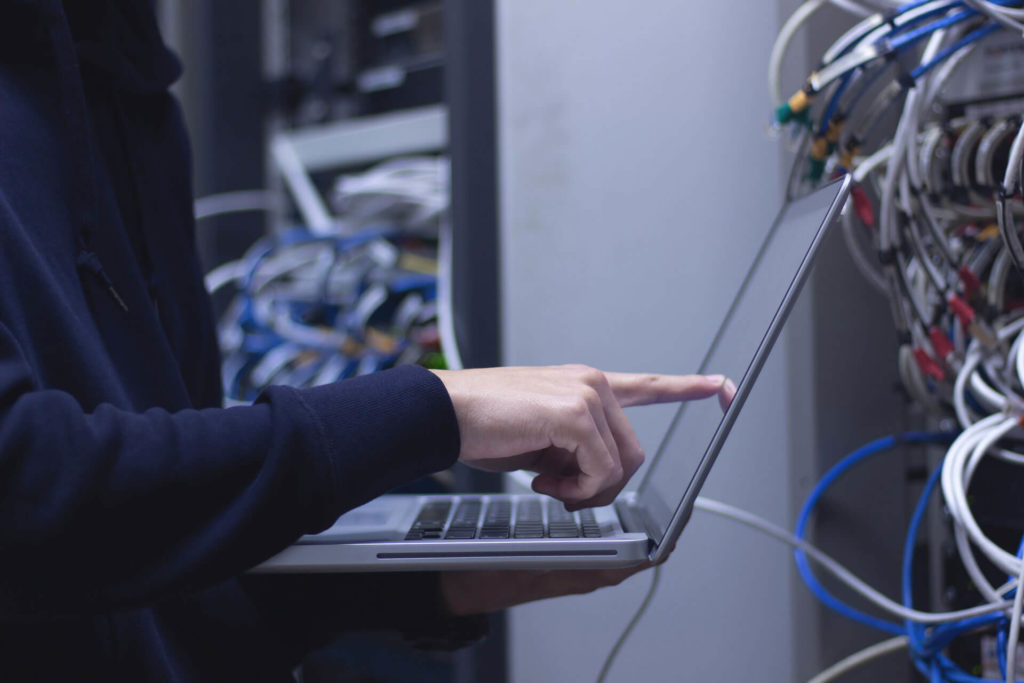
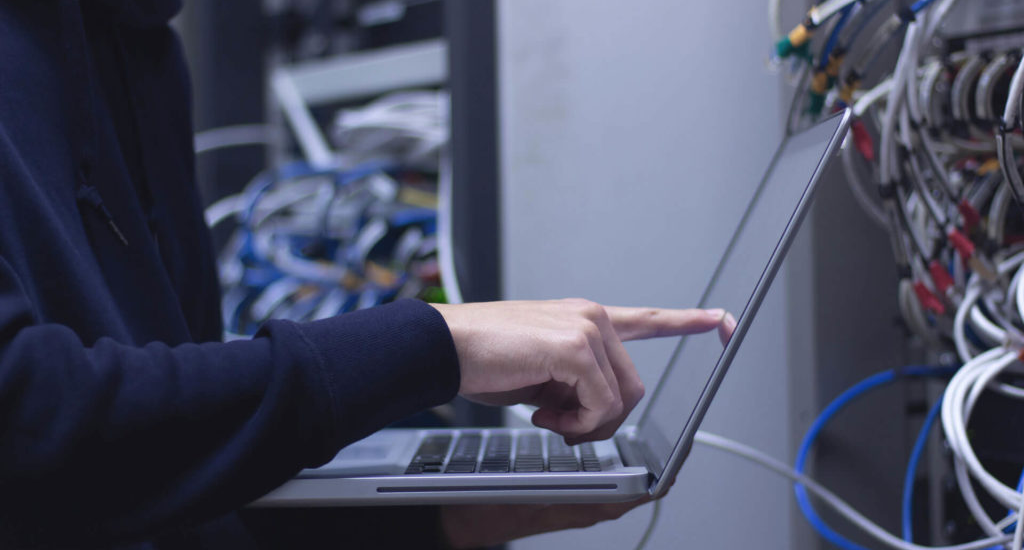
Corrección imágenes

diff --git a/index.html b/index.html
@@ -1,0 +1,26 @@
+<!DOCTYPE html>
+<html lang="en">
+
+<head>
+    <meta charset="UTF-8">
+    <meta http-equiv="X-UA-Compatible" content="IE=edge">
+    <meta name="viewport" content="width=device-width, initial-scale=1.0">
+    <link rel="stylesheet" href="bootstrap/css/bootstrap.min.css">
+    <title>Document</title>
+</head>
+
+<body>
+    <div class="container">
+        <!-- Header -->
+
+        <!-- Aqui va el contenido -->
+
+        <!-- Fin de contenido -->
+
+        <!-- Footer -->
+    </div>
+    <script src="jquery/jquery.min.js"></script>
+    <script src="bootstrap/js/bootstrap.min.js"></script>
+</body>
+
+</html>
